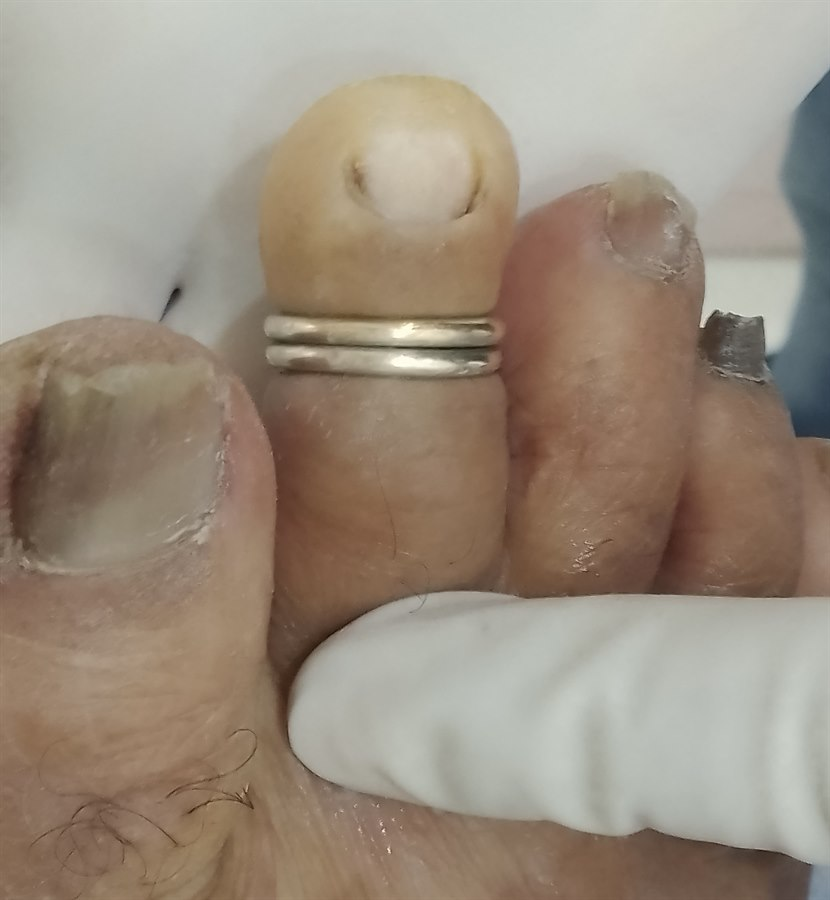
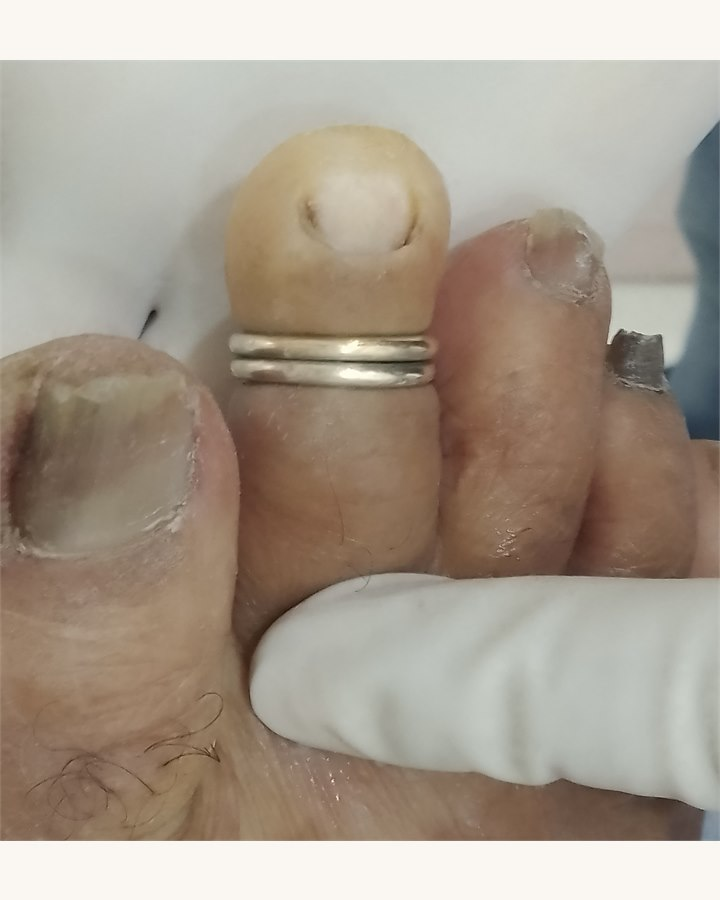
Normalise before/after images to uniform 720x900 matte
Re-processes all 12 result photos to fit identically in the slider:
- Each image is contain-fit into a 720x900 canvas (4:5 portrait)
- Padded with the page background (#FAF7F2) so seams blend
- No more lost labels (BEFORE/AFTER) or off-centre crops between pairs
- Slider container gets a soft border + matching bg

diff --git a/src/index.css b/src/index.css
@@ -230,7 +230,8 @@ details.faq .answer {
   user-select: none;
   touch-action: none;
   aspect-ratio: 4 / 5;
-  background: #ddd;
+  background: var(--bg);
+  border: 1px solid var(--line);
 }
 .ba img {
   position: absolute;
